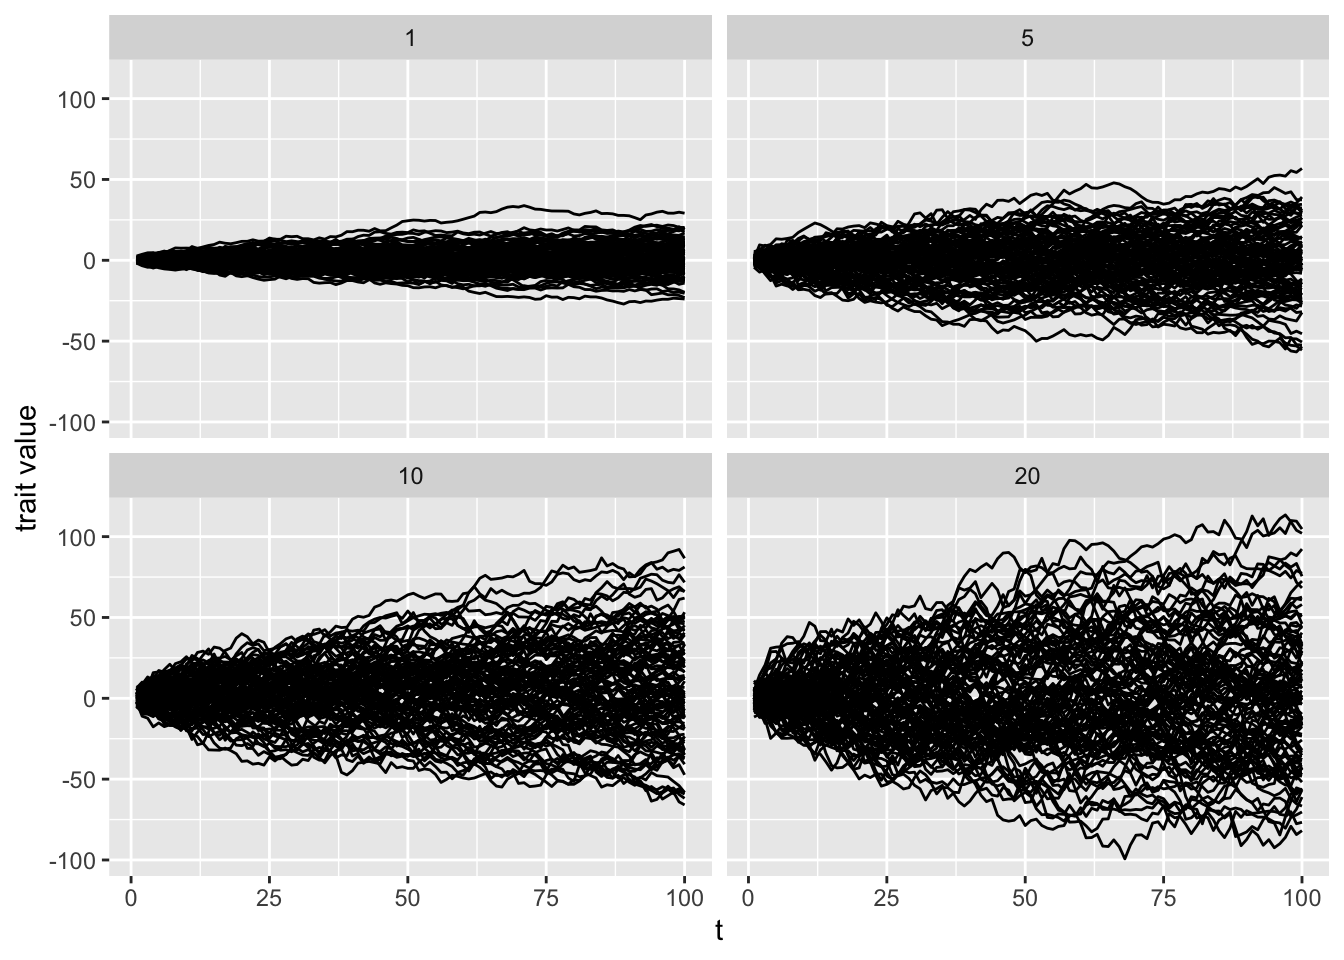
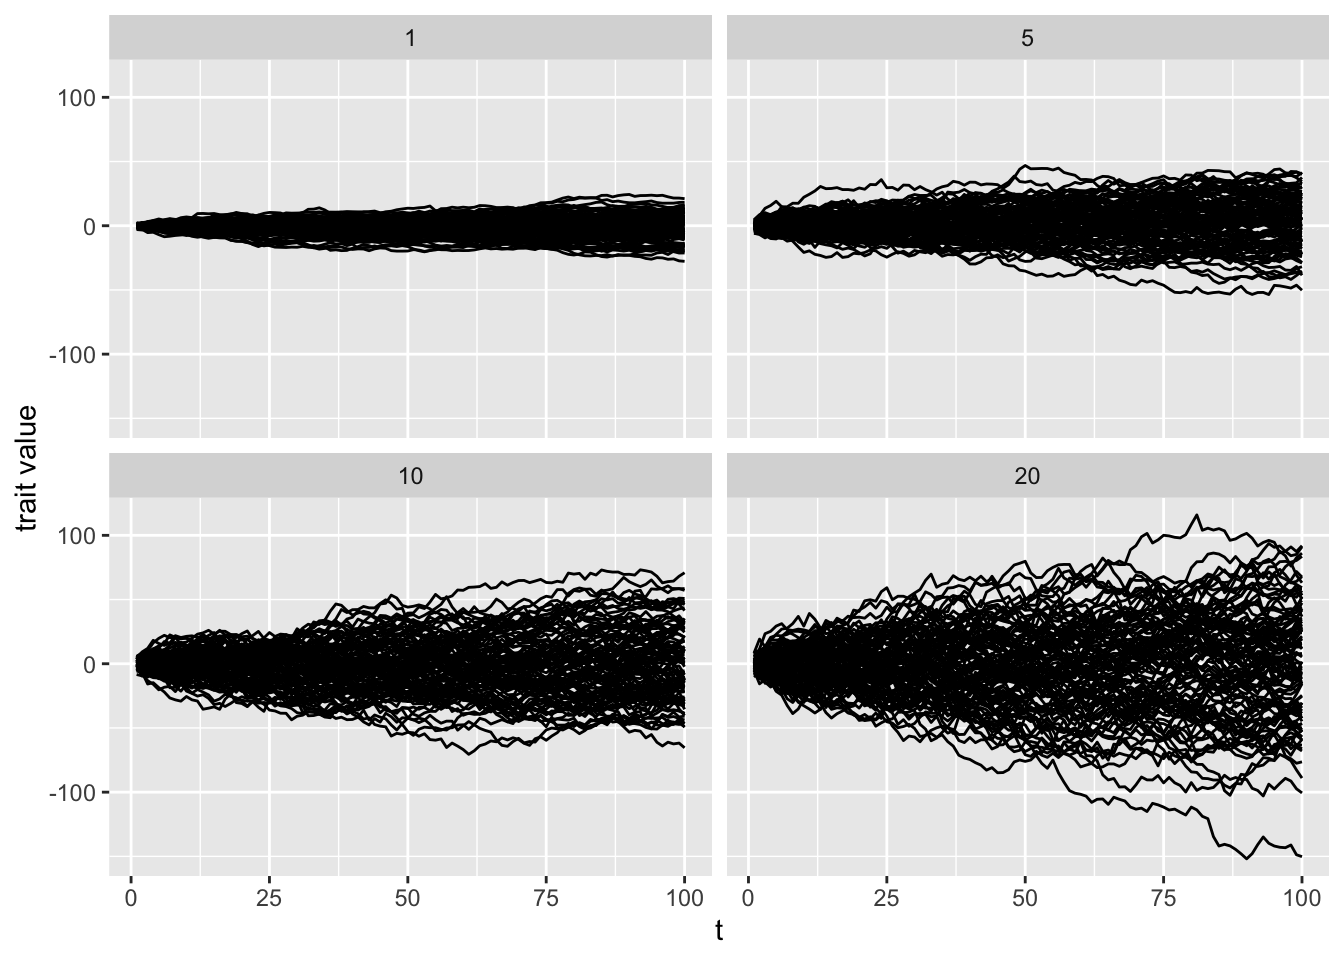
mp3

diff --git a/mod3_proj.html b/mod3_proj.html
@@ -416,7 +416,7 @@ div.tocify {
       <a href="peer_contributions.html">Peer Contribution Evaluation Guidelines</a>
     </li>
     <li>
-      <a href="https://forms.gle/7uVJ3vMtvjFFNvsN8">Author Contribution Evaluation Form</a>
+      <a href="https://forms.gle/7uVJ3vMtvjFFNvsN8">Peer Contribution Evaluation Form</a>
     </li>
   </ul>
 </li>
@@ -462,10 +462,12 @@ His model for this concept was the genus <em>Anolis</em>, although the
 ecomorph construct has been widely applied to many other species (think
 reef fish and Darwin’s Finches).</p>
 <center>
-<p><a
-href="https://upload.wikimedia.org/wikipedia/commons/thumb/4/4b/Green_anole.jpg/320px-Green_anole.jpg"><img
-src="https://upload.wikimedia.org/wikipedia/commons/thumb/4/4b/Green_anole.jpg/320px-Green_anole.jpg"
-alt="Alt text" /></a></p>
+<div class="float">
+<img
+src="https://upload.wikimedia.org/wikipedia/commons/4/4a/Anole_Lizard_Hilo_Hawaii_edit.jpg"
+alt="Alt text" />
+<div class="figcaption">Alt text</div>
+</div>
 </center>
 <p>Our tasks will be to:</p>
 <ol style="list-style-type: decimal">
@@ -676,7 +678,13 @@ pred.lm &lt;-tibble(
 )
 
 anole2%&gt;%
-ggplot(aes(SVL,HTotal))+geom_point()+geom_point(data=pred.lm,aes(SVL,H.pred),col=&quot;blue&quot;)</code></pre>
+ggplot(aes(SVL,HTotal))+
+  geom_point()+
+  geom_point(
+    data=pred.lm,
+    aes(SVL,H.pred),
+    col=&quot;blue&quot;
+    )</code></pre>
 <p><img src="mod3_proj_files/figure-html/unnamed-chunk-5-1.png" alt="" width="672" /></p>
 <pre class="r"><code>summary(anole.lm)</code></pre>
 <pre><code>## 
@@ -1094,8 +1102,8 @@ in the statistical sense. In other words, any trait we seek to study
 likely covaries with phylogenetic position. For example, in the context
 of anole hindlimb-SVL data, it is entirely possible, perhaps probable,
 that more closely related species share a similar pattern. Thus, it may
-be that any patterns we’ve uncovered thus far are the result of
-phylogeny, not merely ecomorph alone.</p>
+be that any patterns we’ve uncovered so far are the result of phylogeny,
+not merely ecomorph alone.</p>
 <p>To account for phylogeny in statistical analysis, we must turn to an
 important toolbox used by organismal biologists, phylogenetic
 comparative methods (PCMs). PCMs have a long history and today they are
@@ -1265,7 +1273,7 @@ aicw(anole.phylo.aic$AICc)</code></pre>
 ## 2 -92.98036  0.000000 9.827289e-01
 ## 3 -57.31864 35.661714 1.772520e-08
 ## 4 -84.89770  8.082653 1.727062e-02</code></pre>
-<p>From the AIC results, we con safely say that a phyloggnetically
+<p>From the AIC results, we con safely say that a phylogenetically
 corrected regression model that includes <code>Ecomorph2</code> with
 traits evolving under BM is the best fit. The OU models that specify a
 pull to some global optimum are rejected. We can interpret this to mean
@@ -1331,7 +1339,11 @@ with a boxplot. This is how it can be done:</p>
   dplyr::select(Ecomorph2,res,phylo.res)%&gt;%
   pivot_longer(cols=c(&quot;res&quot;,&quot;phylo.res&quot;))%&gt;%
   print%&gt;%
-  ggplot(aes(x=Ecomorph2,y=value)) +geom_boxplot() +stat_summary(fun=mean, geom=&quot;point&quot;, size=3)+facet_grid(name~.,scales = &quot;free_y&quot;)+ylab(&quot;residual&quot;)</code></pre>
+  ggplot(aes(x=Ecomorph2,y=value))+
+  geom_boxplot()+
+  stat_summary(fun=mean, geom=&quot;point&quot;, size=3)+
+  facet_grid(name~.,scales = &quot;free_y&quot;)+
+  ylab(&quot;residual&quot;)</code></pre>
 <pre><code>## # A tibble: 92 × 3
 ##    Ecomorph2    name         value
 ##    &lt;chr&gt;        &lt;chr&gt;        &lt;dbl&gt;
@@ -1448,11 +1460,13 @@ models. Please produce two separate plots.</li>
 <li>Under a BM model of trait evolution and using the tree provided,
 construct phylogenetic least squares models of the hindlimb-SVL
 relationships that include the unique combinations of these two
-covariates, i.e,</li>
+covariates, i.e., PGLS models with the following:</li>
 </ol>
-<pre><code>* A PGLS model with the hindlimb-SVL relationship + perch height
-* A PGLS model with the hindlimb-SVL relationship + perch diameter
-* A PGSL model with the hindlimb-SVL relationship + perch height + perch diameter</code></pre>
+<ul>
+<li>hindlimb-SVL relationship + perch height</li>
+<li>hindlimb-SVL relationship + perch diameter</li>
+<li>hindlimb-SVL relationship + perch height + perch diameter</li>
+</ul>
 <ol start="5" style="list-style-type: decimal">
 <li>Assess the fit of each of these three models using AICc and AICw and
 comment on (with comments in the script) whether one or both of the
@@ -1480,7 +1494,7 @@ lm.PD &lt;- lm(HL~PD,dat)
 “Module3_TeamX.R” where “X” is the each number. This means one team
 member should push the team’s submission to their team’s github
 directory, i.e., “Module3_Team1”, if in Team 1. Submissions are due by
-11:59 PM on Sunday, September 21st.</p>
+11:59 PM on Sunday, September 27th.</p>
 </div>
 <div id="references" class="section level1 unnumbered">
 <h1 class="unnumbered">References</h1>
